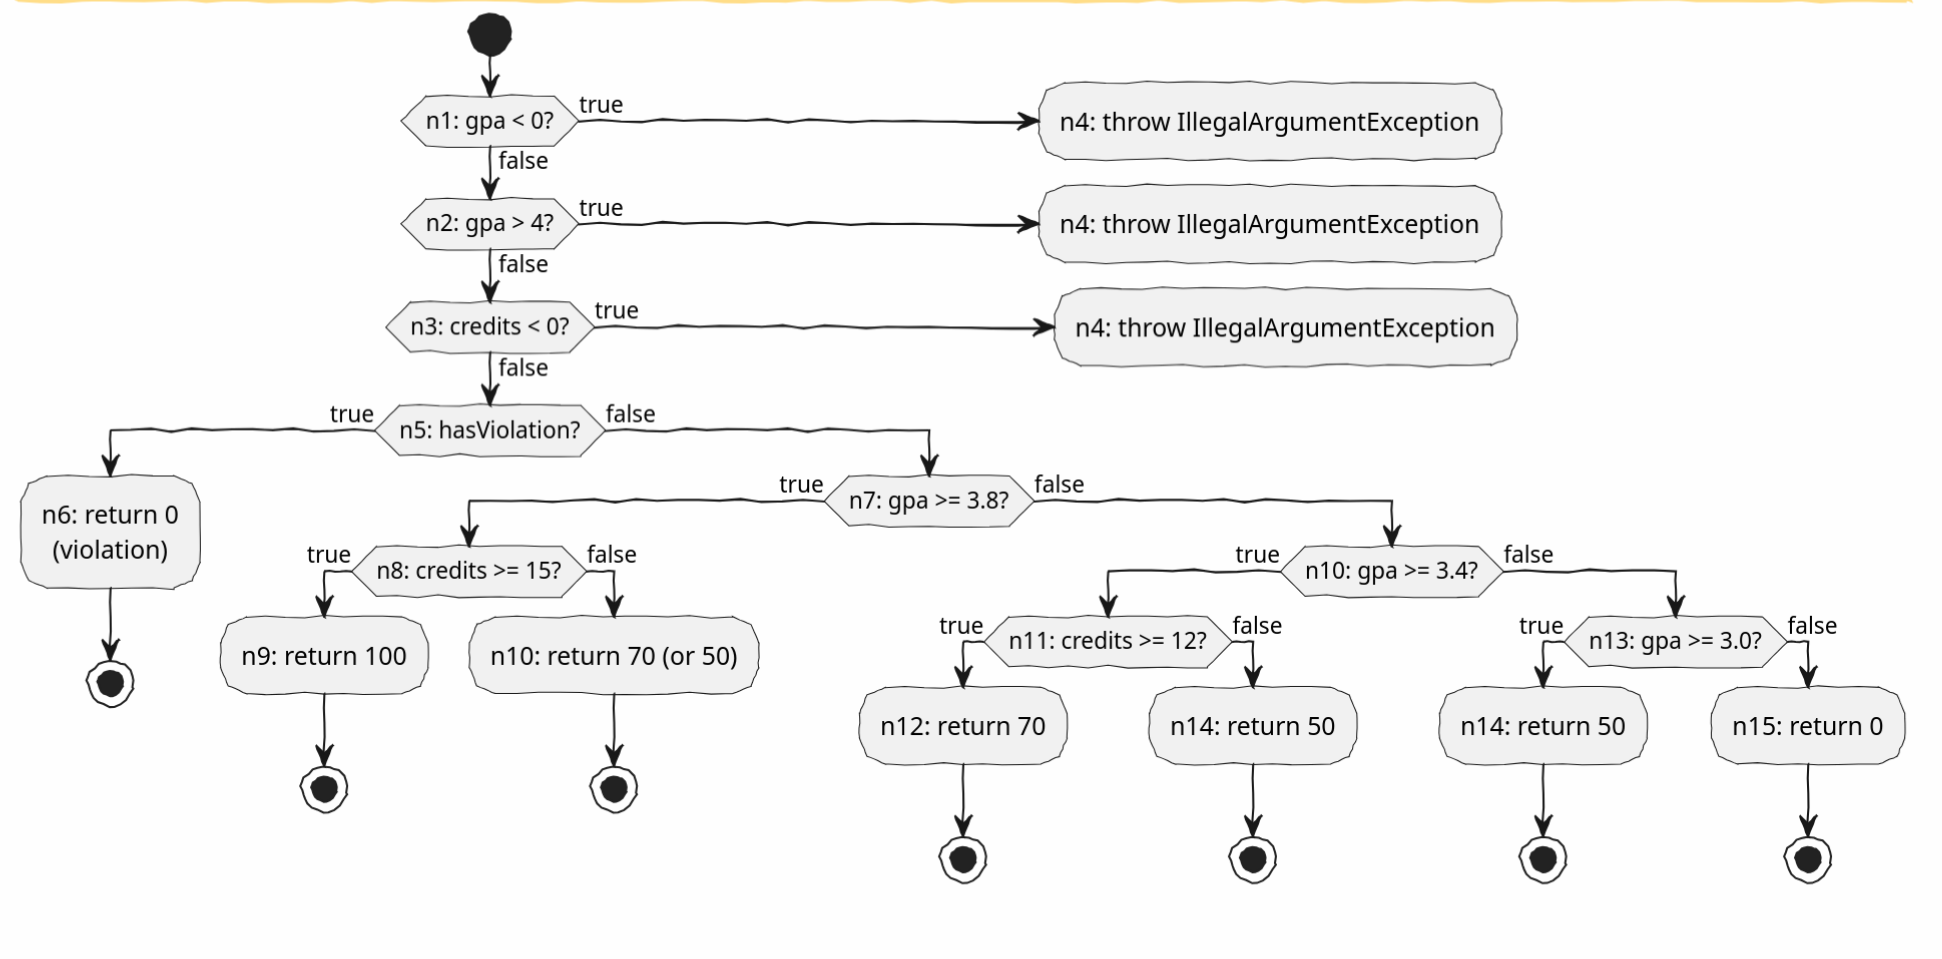
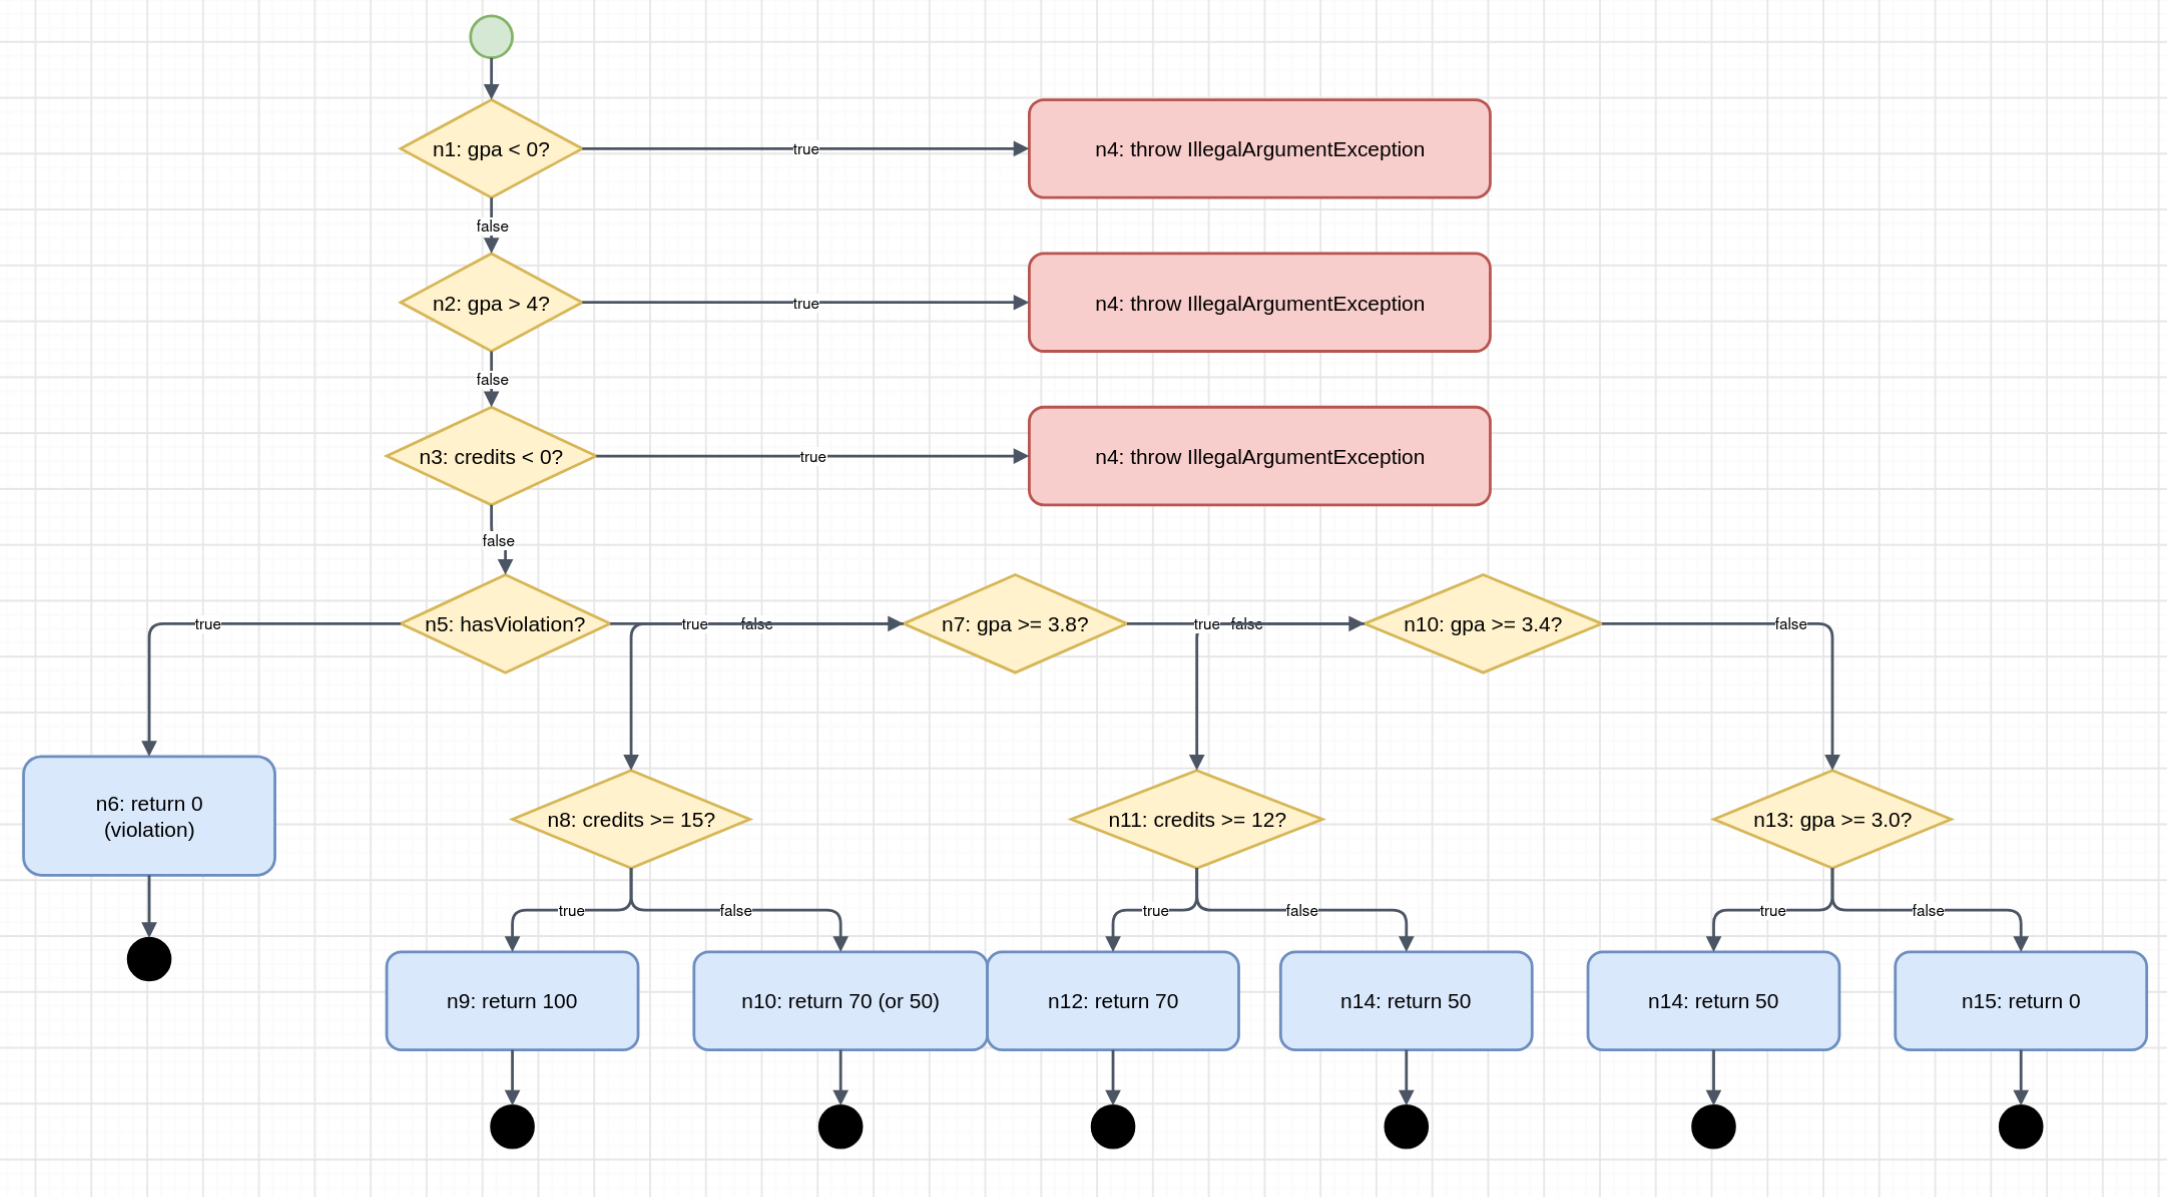
docs: replace CFG with hand-drawn diagram

diff --git a/README.md b/README.md
@@ -29,7 +29,7 @@ Happy-path 5 тестээр (`letterGradeA`, `letterGradeB`, `letterGradeC`, `gp
 
 ## B. Control Flow Graph ба Branch 100%
 
-`scholarship()`-ийн CFG-г гараар зурсан (`cfg.png`, эх файл `cfg.dot`). Шийдвэр бүрийн true/false ирмэг дээр түүнийг дайрах тестийн method нэрийг тэмдэглэсэн.
+`scholarship()`-ийн CFG-г гараар зурсан (`cfg.png`). Шийдвэр бүрийн true/false ирмэг дээр түүнийг дайрах тестийн method нэрийг тэмдэглэсэн.
 
 | Шийдвэр | Нөхцөл | true ирмэг дээрх тест | false ирмэг дээрх тест |
 | :--- | :--- | :--- | :--- |
